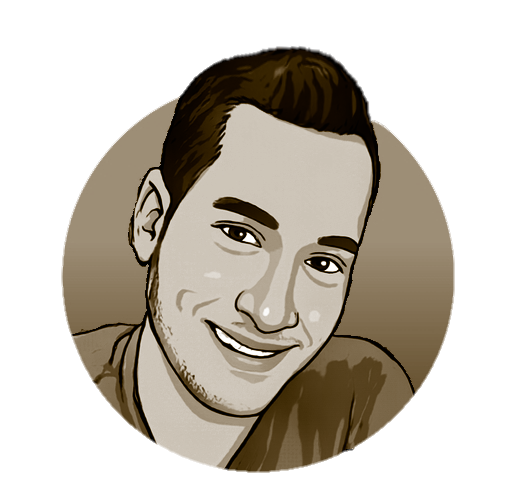
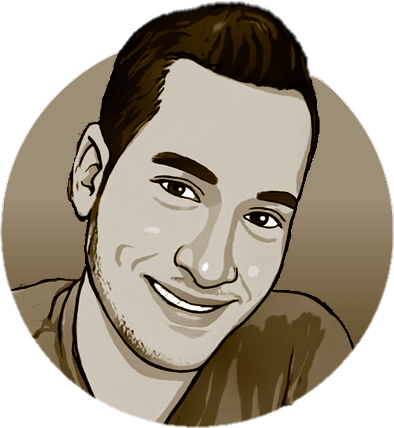
about section

diff --git a/index.html b/index.html
@@ -176,10 +176,31 @@
         <img src="img/main/liraz.png" alt="">
         <section class="about-text">
             <h1>Hi! my name is Liraz</h1>
-            <p>I'm a student of Full Stack Development bootcamp at Coding Academy.</p>
-            <p>I enjoy to code and cook and really love to speak at Lorem ipsum dolor sit amet consectetur adipisicing
-                elit. Consequuntur harum dolor ex optio. Assumenda sequi consectetur similique, ex atque sunt at.
-                Sapiente minima, dignissimos in corporis veritatis minus quidem omnis.</p>
+            <p>A full stack student at the Coding Academy boot camp.</p>
+            <p>Started as a hummus chef but now cooking code and baking web apps using HTML, JS and CSS.<p>
+                <p>As the challenge grows so is the hunger for knowledge, and doing the best to receive michelin stars.</p>
+                <ul class="social-buttons">
+                    <li class="list-inline-item">
+                      <a href="https://www.linkedin.com/in/liraz-ganon-5273b0245/">
+                        <i class="fa fa-linkedin"></i>
+                      </a>
+                    </li>
+                    <li class="list-inline-item">
+                      <a href="https://github.com/LirazGanon">
+                        <i class="fa fa-github"></i>
+                      </a>
+                    </li>
+                    <li class="list-inline-item">
+                      <a href="https://www.facebook.com/liraz88">
+                        <i class="fa fa-facebook"></i>
+                      </a>
+                    </li>
+                    <li class="list-inline-item">
+                      <a href="https://www.instagram.com/lirazganon/">
+                        <i class="fa fa-instagram"></i>
+                      </a>
+                    </li>
+                  </ul>
         </section>
     </main>
     <!-- FOOTER -->

diff --git a/css/pages/about.css b/css/pages/about.css
@@ -1,31 +1,61 @@
-
-main.main-about{
+main.main-about {
     display: flex;
     align-items: center;
     color: var(--clr13);
     flex-direction: column;
     width: 90%;
     margin: 0, auto;
+    gap: 0px;
+    margin-top: 20px;
+    min-height: 75vh;
 }
 
-.main-about img{
-    max-width: 350px;
+.main-about img {
+    max-width: 300px;
+    max-height: 300px;
 }
 
-.main-about h1{
+.main-about h1 {
     font-size: 2rem;
     margin-bottom: 0.5em;
+    margin-top: 30px;
 }
-.main-about p{
-font-size: 1.2rem;
+
+.main-about p {
+    font-size: 1.2rem;
+}
+
+.social-buttons{
+    margin-top: 20px;
+    margin-bottom: 10px;
+    display: flex;
+    list-style: none;
+    gap: 20px;
+    font-size: 2em;
+    justify-content: center;
+}
+.social-buttons li{
+    transition: opacity  0.2s;
+}
+
+.social-buttons li:hover{
+   opacity: 0.7;
 }
 
 @media (min-width: 768px) {
-    main.main-about{
-        flex-direction:row;
+    main.main-about {
+        flex-direction: row;
+        align-items: flex-start;
+        margin-top: 60px;
+        gap: 30px;
     }
 
-    .main-about h1{
+    .main-about h1 {
         font-size: 2.5rem;
+        margin-top: 50px;
+    }
+
+    .social-buttons{
+        font-size: 2.5em;
     }
 }
